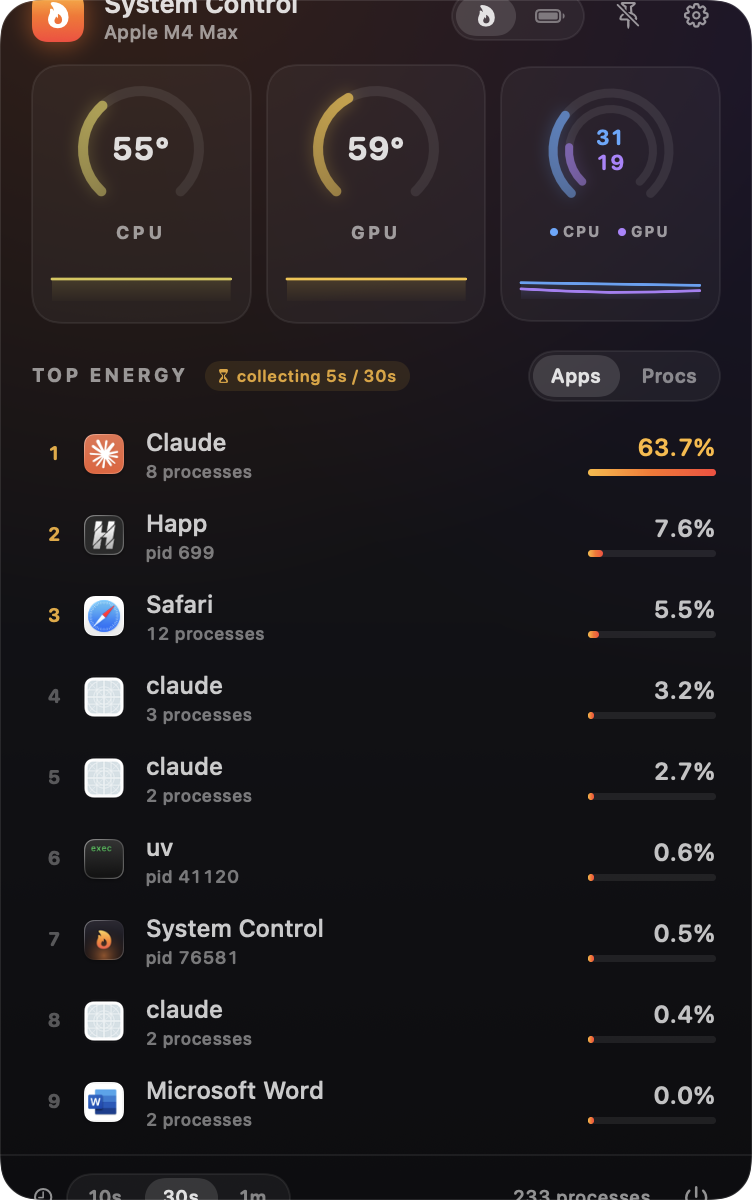
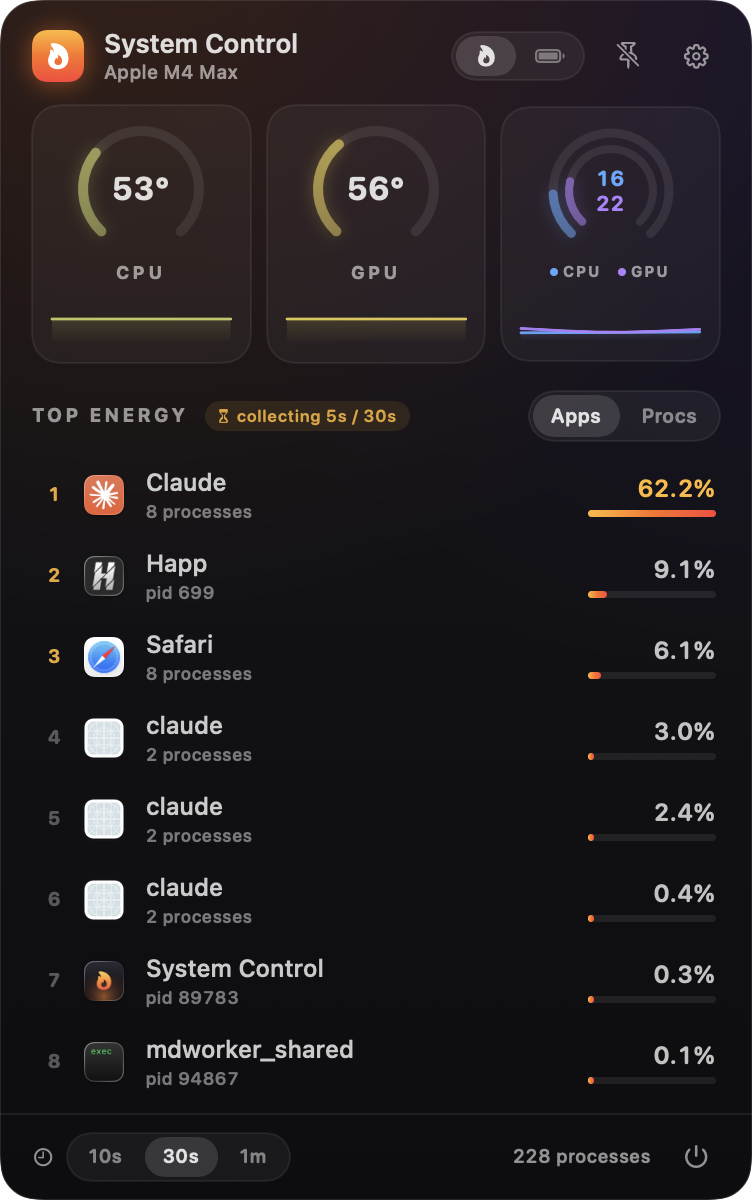
README previews: energy shot fits the window (8 rows), no crop
Вкладка Energy с 9 строками выше окна 600pt — шапка и футер обрезались
скруглённой рамкой. В снапшоте показываем 8 строк (как помещается в окне
до прокрутки): контент целиком, высота совпадает с battery-превью (752×1200).

diff --git a/Sources/SystemControl/UI/ProcessList.swift b/Sources/SystemControl/UI/ProcessList.swift
@@ -34,7 +34,11 @@ struct ProcessListView: View {
                         .padding(.top, 70)
                 } else {
                     let maxCpu = state.entries.map(\.cpuPercent).max() ?? 1
-                    ForEach(Array(state.entries.enumerated()), id: \.element.id) { index, entry in
+                    // В снапшоте нет прокрутки — показываем столько строк,
+                    // сколько реально помещается в окно (как до скролла),
+                    // иначе контент вылезает за 600pt и обрезается сверху/снизу
+                    let shown = Self.snapshotMode ? Array(state.entries.prefix(8)) : state.entries
+                    ForEach(Array(shown.enumerated()), id: \.element.id) { index, entry in
                         ProcessRow(
                             entry: entry,
                             rank: index + 1,